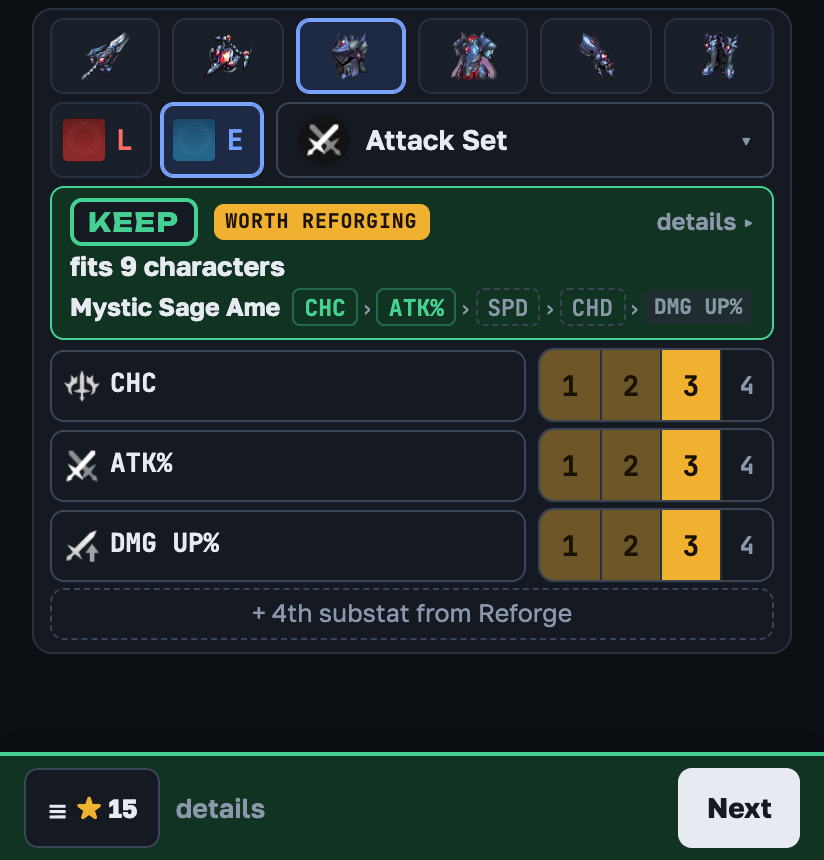
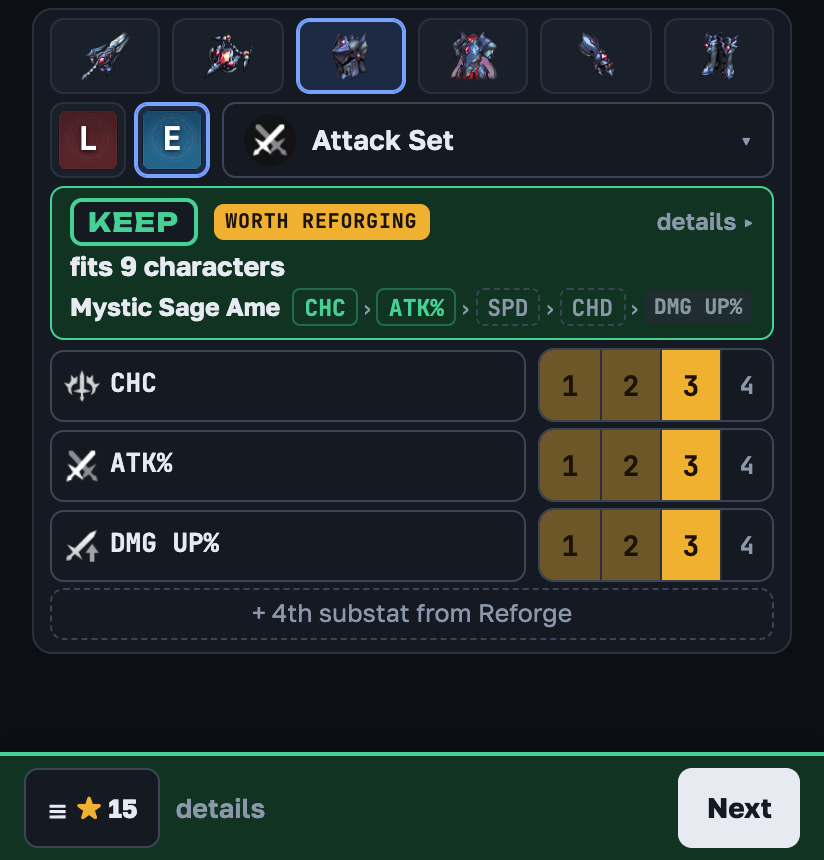
Грейд — квадрат рамки с белой буквой вместо рамки и буквы рядом
- Кнопка грейда — сама рамка из игры (красная Legendary, синяя Epic) с белой
  L/E внутри; невыбранный приглушён, выбранный — в рамке акцента. Квадрат
  44 px (40 и 38 на низком экране) — вместо ~51 px в ширину.
- На 281 px группа грейда уже на 15 px: кнопкам main оружия досталось по 39 px
  вместо 34, подпись больше не обрезается.
- Буква поднята над картинкой: картинка с opacity рисуется отдельным слоем и
  закрывала текст невыбранного грейда.
- Скриншоты README и Wiki пересняты (en, ru).

Changed region(s): [[0.0607, 0.1209, 0.6371, 0.2116]]

diff --git a/src/styles/eval.css b/src/styles/eval.css
@@ -15,11 +15,12 @@ html.narrow .slot span { display: none; }
 @media (hover: hover) and (pointer: fine) { html:not(.sheet) .slot kbd { display: inline-block; } }
 .formrow { display: flex; gap: 6px; min-width: 0; }
 .gradesw { display: flex; gap: 4px; flex: none; }
-.grade { display: inline-flex; align-items: center; gap: 5px; padding: 0 9px 0 5px; min-height: 44px; border: 1px solid var(--line); border-radius: var(--radius-s); background: var(--surface-2); font-weight: 700; }
-.grade img, .grade .noimg { width: 22px; height: 22px; border-radius: 4px; }
-.grade .gname { font-family: var(--font-mono); font-size: 14px; }
-.grade.unique .gname { color: var(--legend); }
-.grade.rare .gname { color: var(--epic); }
+/* грейд — рамка из игры (красная Legendary, синяя Epic) с белой буквой; невыбранный приглушён */
+.grade { display: inline-grid; place-items: center; width: 44px; min-height: 44px; padding: 3px; border: 1px solid var(--line); border-radius: var(--radius-s); background: var(--surface-2); font-weight: 700; }
+.grade > * { grid-area: 1 / 1; }
+.grade img, .grade .noimg { width: 100%; height: 100%; border-radius: 5px; object-fit: cover; }
+.grade .gname { position: relative; color: #fff; font: 700 16px/1 var(--font-mono); text-shadow: 0 1px 2px rgb(0 0 0 / .6); } /* над картинкой: с opacity она рисуется отдельным слоем поверх текста */
+.grade:not([aria-pressed="true"]) img { opacity: .55; }
 .pick { flex: 1; min-width: 0; display: flex; align-items: center; gap: 8px; min-height: 44px; padding: 4px 10px; border: 1px solid var(--line-2); border-radius: var(--radius-s); background: var(--surface); text-align: left; font-weight: 600; font-size: 14px; }
 .pick-v { flex: 1; min-width: 0; display: flex; align-items: center; gap: 8px; white-space: nowrap; overflow: hidden; text-overflow: ellipsis; }
 .pick-v > img, .pick-v > .noimg { width: 26px; height: 26px; flex: none; object-fit: contain; }
@@ -135,6 +136,7 @@ html.xs .subrow .roll-b button.r4 { min-width: 26px; }
   .slot { min-height: 40px; }
   .slot img, .slot .noimg { width: 28px; height: 28px; }
   .grade, .pick, .msw { min-height: 40px; }
+  .grade { width: 40px; }
   .subrows { gap: 4px; }
   .subrow .roll-b button { height: 38px; }
 }
@@ -198,6 +200,7 @@ html.narrow .app > footer.foot { display: none; }
   .slot { min-height: 38px; }
   .slot img, .slot .noimg { width: 26px; height: 26px; }
   .grade, .pick, .msw { min-height: 38px; }
+  .grade { width: 38px; }
   .subzone { min-height: 76px; }
   .sg { min-height: 36px; }
   .subrows { gap: 3px; }
